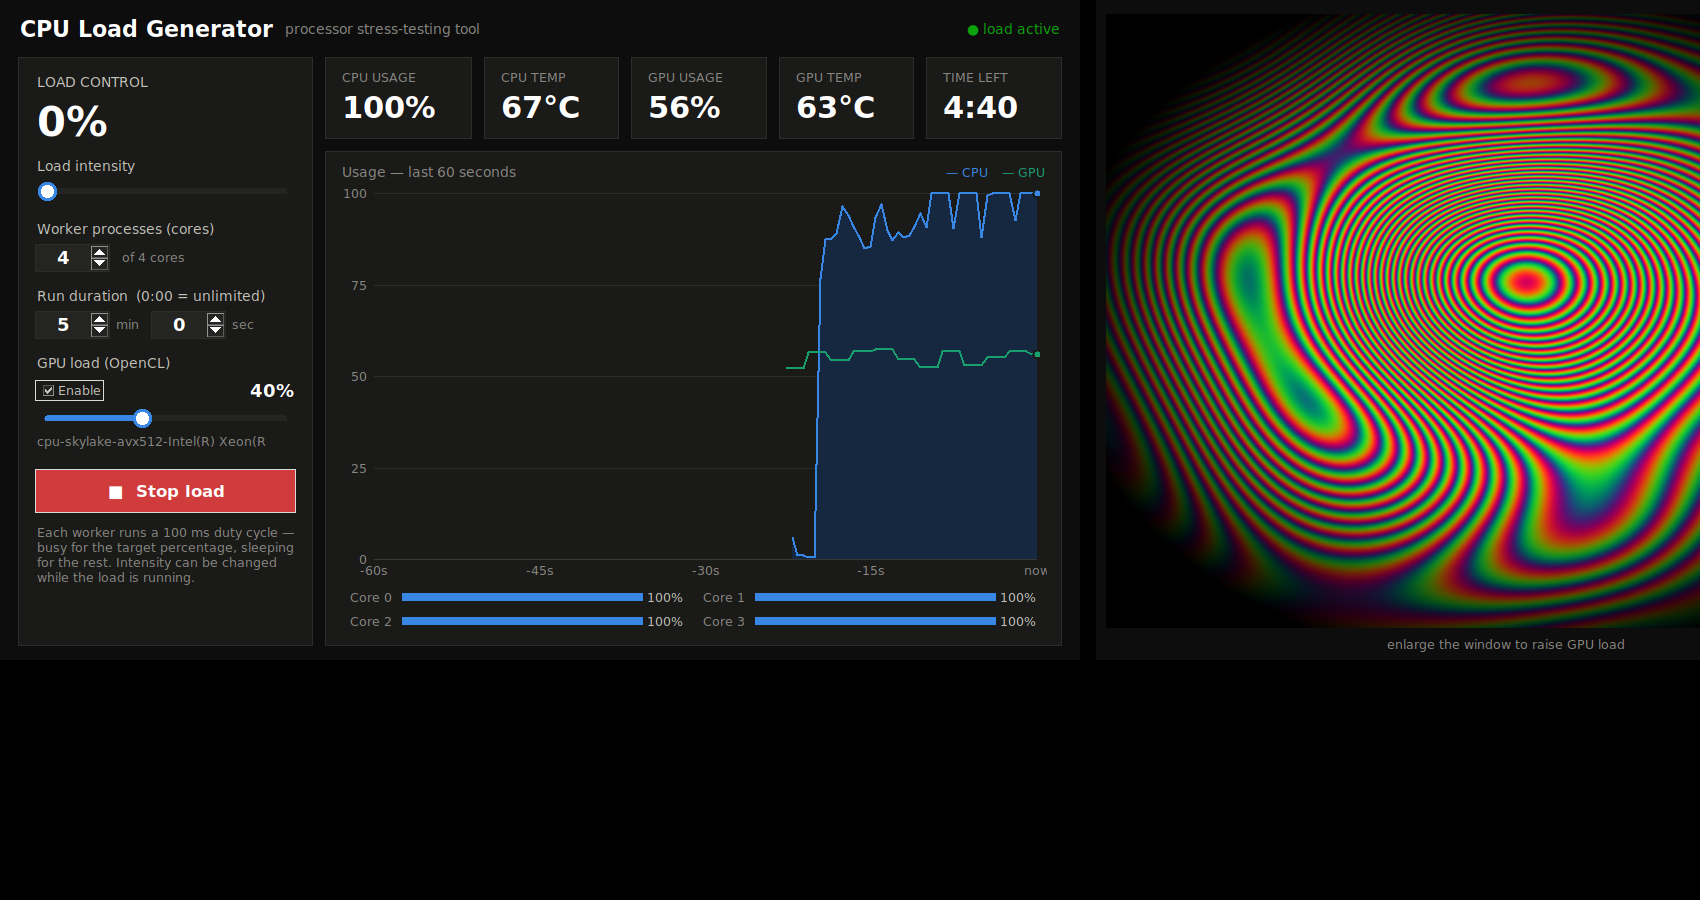
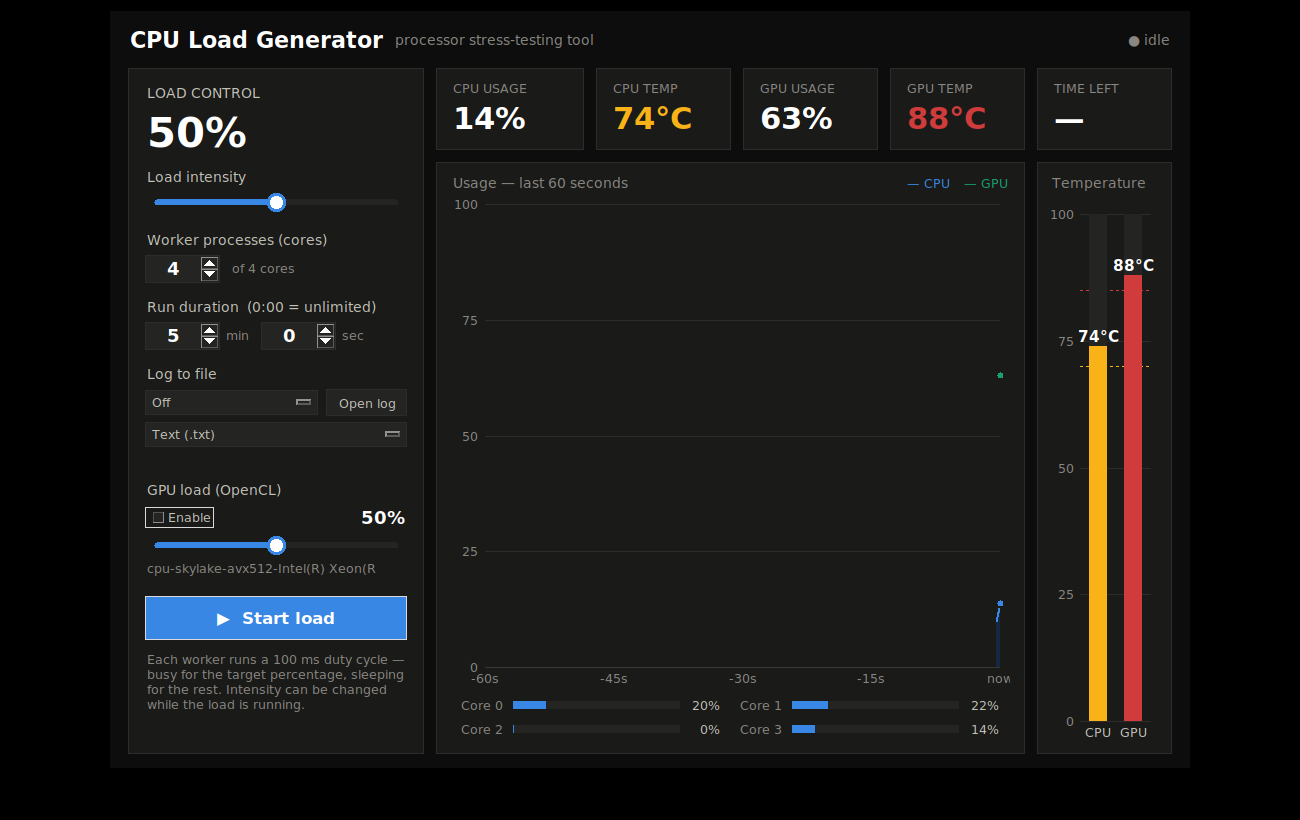
Add CPU/GPU temperature bar chart
A temperature panel to the right of the usage chart shows current CPU
and GPU temperatures as two vertical bars on a 0-100C scale, filled
green/amber/red by the same 70/85C thresholds as the tiles, with the
value on top of each bar and dashed reference lines at 70 and 85. The
usage chart now spans four dashboard columns and the temperature panel
takes the fifth. Missing sensors render an empty bar with a dash.

Claude-Session: https://claude.ai/code/session_01XEwZKa1cMo7zE76kATrkZJ

diff --git a/cpu_load_gui.py b/cpu_load_gui.py
@@ -1048,7 +1048,7 @@ class App:
         root.after(4000, self._autostart_hw_monitor)
 
         chart_card = self._card(dash)
-        chart_card.grid(row=1, column=0, columnspan=5, sticky="nsew", pady=(12, 0))
+        chart_card.grid(row=1, column=0, columnspan=4, sticky="nsew", pady=(12, 0))
         chead = tk.Frame(chart_card, bg=CARD)
         chead.pack(fill="x", padx=14, pady=(10, 2))
         tk.Label(chead, text="Usage — last 60 seconds",
@@ -1061,6 +1061,14 @@ class App:
         self.bars = tk.Canvas(chart_card, bg=CARD, highlightthickness=0,
                               height=max(46, 24 * ((engine.cpu_count + 1) // 2)))
         self.bars.pack(fill="x", padx=14, pady=(6, 12))
+
+        # temperature bar chart (right of the usage chart)
+        temp_card = self._card(dash)
+        temp_card.grid(row=1, column=4, sticky="nsew", padx=(12, 0), pady=(12, 0))
+        tk.Label(temp_card, text="Temperature", font=self.f_label,
+                 bg=CARD, fg=MUTED).pack(anchor="w", padx=12, pady=(10, 2))
+        self.tchart = tk.Canvas(temp_card, bg=CARD, highlightthickness=0)
+        self.tchart.pack(fill="both", expand=True, padx=12, pady=(0, 12))
 
         self._anim_win = None
         self._anim_lbl = None
@@ -1441,6 +1449,7 @@ class App:
         self._paint_state()
         self._draw_chart(now)
         self._draw_bars(s.cores)
+        self._draw_temp_bars(s.temp, s.gpu_temp)
         self.root.after(TICK_MS, self._tick)
 
     # -- drawing ---------------------------------------------------------------
@@ -1503,6 +1512,40 @@ class App:
                 c.create_rectangle(bar_x1, cy - 4, bar_x1 + fill_w, cy + 4, fill=BLUE, outline="")
             c.create_text(cx + col_w - gap, cy, text=f"{v:.0f}%", anchor="e",
                           fill=INK2, font=self.f_small)
+
+    def _draw_temp_bars(self, cpu_temp, gpu_temp):
+        c = self.tchart
+        c.delete("all")
+        w, h = c.winfo_width(), c.winfo_height()
+        if w < 40 or h < 40:
+            return
+        pl, pr, pt, pb = 30, 8, 18, 20
+        ph = h - pt - pb
+        ymax = 100.0
+        y = lambda v: pt + ph * (1 - min(v, ymax) / ymax)
+
+        for v in (0, 25, 50, 75, 100):        # scale + gridlines
+            c.create_line(pl, y(v), w - pr, y(v), fill=GRID)
+            c.create_text(pl - 6, y(v), text=str(v), anchor="e", fill=MUTED, font=self.f_small)
+        for thr, col in ((70, AMBER), (85, RED)):   # warning thresholds
+            c.create_line(pl, y(thr), w - pr, y(thr), fill=col, dash=(3, 3))
+
+        items = (("CPU", cpu_temp), ("GPU", gpu_temp))
+        slot = (w - pl - pr) / len(items)
+        bw = min(56, slot * 0.5)
+        for i, (name, temp) in enumerate(items):
+            cx = pl + slot * (i + 0.5)
+            x0, x1 = cx - bw / 2, cx + bw / 2
+            c.create_rectangle(x0, pt, x1, y(0), fill=CARD2, outline="")   # track
+            if temp is None:
+                c.create_text(cx, y(0) - 12, text="—", fill=MUTED, font=self.f_mid)
+            else:
+                col = RED if temp >= 85 else AMBER if temp >= 70 else GREEN
+                ty = y(temp)
+                c.create_rectangle(x0, ty, x1, y(0), fill=col, outline="")
+                c.create_text(cx, ty - 10, text="%.0f°C" % temp, fill=INK,
+                              font=(self.f_mid[0], 11, "bold"))
+            c.create_text(cx, h - pb + 4, text=name, anchor="n", fill=INK2, font=self.f_small)
 
 
 def main():

diff --git a/README.md b/README.md
@@ -26,6 +26,7 @@ No dependencies — Python standard library only.
 * **Stress animation window** — FurMark-style: while the GPU load runs, a resizable window shows a live plasma animation that is computed pixel-by-pixel on the GPU — the animation itself is the load. The intensity slider sets the actual GPU busy fraction, and the work size auto-calibrates to the card's speed (an RTX gets thousands of times more math per burst than an iGPU). Closing the window keeps the load running
 * **Run duration** — minutes : seconds with auto-stop and a live countdown; 0:00 = unlimited (stops CPU and GPU together)
 * **Live usage display** — CPU and GPU percentages on a 60-second history chart, plus a bar per core
+* **Temperature bar chart** — live CPU and GPU temperatures as side-by-side bars on a 0–100 °C scale, colored green / amber / red with dashed warning lines at 70 °C and 85 °C
 * **CPU & GPU temperature** — color-coded (amber from 70°C, red from 85°C); shows "—" when no sensor is readable
 * **Worker-count control** — choose how many cores to load (up to 2× core count)
 * **Logging to a file** — optional sampling every 1 / 5 / 10 minutes: timestamp, CPU/GPU usage and temperature, and the current load settings. Choose the format — **Text (.txt)** for a readable log, **CSV (.csv)** for a lightweight spreadsheet, or **Excel (.xlsx)** for a native workbook that opens with no import prompt (both spreadsheet formats put one metric per column). Every logging session creates a fresh timestamped file next to the program (home-folder fallback), and an **Open log** button opens the current file. Handy for long burn-in runs
